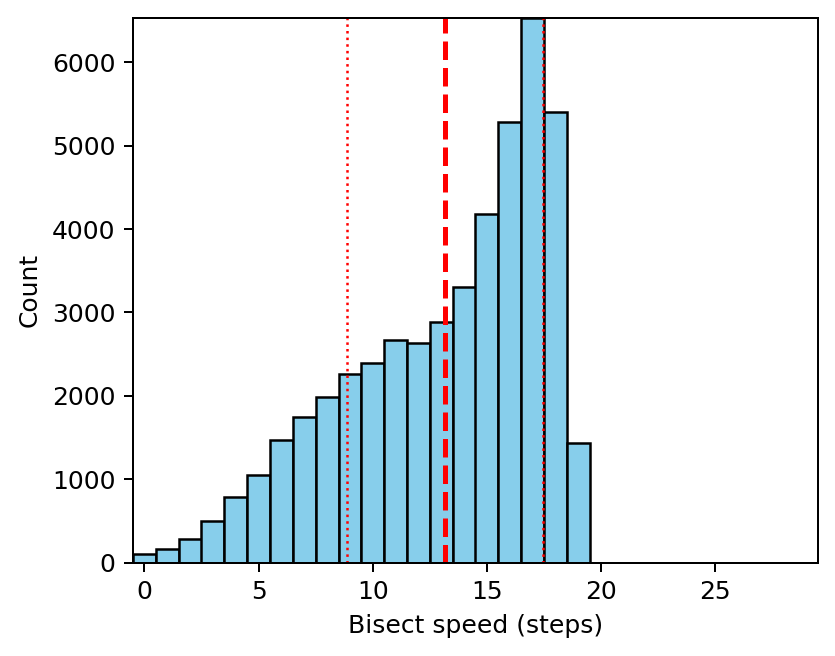
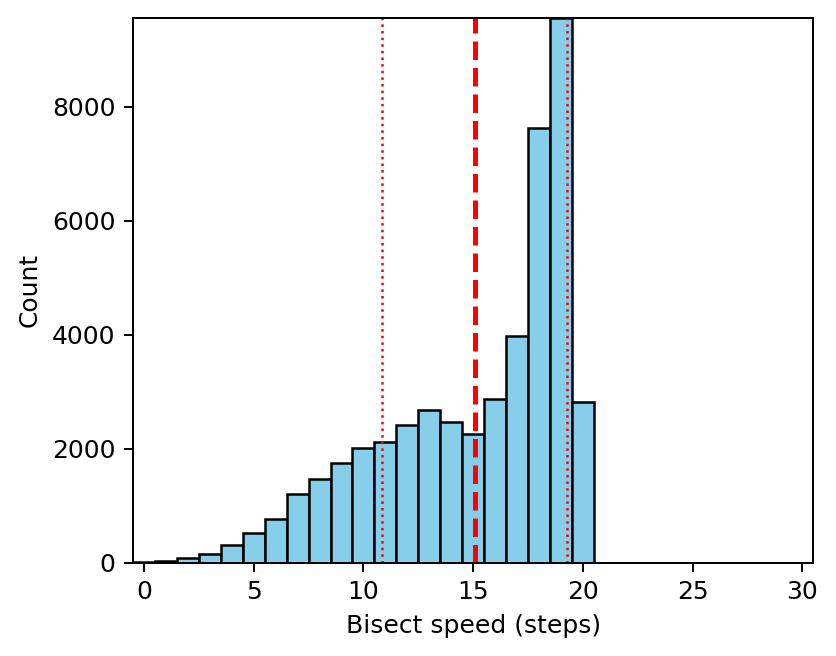
Updated text to incorporate Frajo's comments
Edits to the writeup to refine the language and include results
comparing the git bisect ordering with the git log ordering.

diff --git a/writeup/bisect.tex b/writeup/bisect.tex
@@ -467,7 +467,7 @@ E-mail: david.llewellyn-jones@jolla.com and franz.haider@jolla.com.}% <-this % s
 % in the abstract or keywords.
 \IEEEtitleabstractindextext{%
 \begin{abstract}
-In software development, a {\it regression\/} constitutes a bug that is known to have been introduced since the previous release; hence the search space for identifying the commit that introduced the bug is bounded by the previous and current release commits. The {\code git bisect} tool makes use of the bisect algorithm to identifying the specific commit that introduced the bug in a mechanical way. When developing software, having identified the specific commit that introduced the regression, it will often then be reverted (undone) using a {\it revert commit}. The bisect algorithm can be shown mathematically to be the optimal search algorithm as long as the search space is uniformly randomly distributed. We analyse and identify revert commits across all public repositories on GitHub for fourteen different programming languages in order to demonstrate that regression commits {\it are not\/} uniformly distributed. We then go on to show that using a weighted distance metric, the average number of steps required to identify regression commits can be significantly reduced. Depending on the langage we show a decrease of between 0.60 and 4.02 steps. We achieve this using a relatively simple statistical regression analysis that allows us to better approximate the distribution of commits and provide an improved weighted distance metric for use with {\code git bisect}.
+In software development, a {\it regression\/} constitutes a bug that is known to have been introduced since the previous release; hence the search space for identifying the commit that introduced the bug is bounded by the previous and current release commits. The {\code git bisect} tool makes use of the bisect algorithm to identifying the specific commit that introduced the bug in a mechanical way. When developing software, having identified the specific commit that introduced the regression, it will often then be reverted (undone) using a {\it revert commit}. The bisect algorithm can be shown mathematically to be the optimal search algorithm as long as the search space is uniformly randomly distributed. We analyse and identify revert commits across all public repositories on GitHub for fourteen different programming languages in order to demonstrate that regression commits {\it are not\/} uniformly distributed. We then go on to show that using a weighted distance metric, the average number of steps required to identify regression commits can be significantly reduced. Depending on the langage we show a decrease of between 0.45 and 3.90 steps. We achieve this using a relatively simple statistical regression analysis that allows us to better approximate the distribution of commits and provide an improved weighted distance metric for use with {\code git bisect}.
 \end{abstract}
 
 % Note that keywords are not normally used for peerreview papers.
@@ -554,7 +554,7 @@ The {\code git bisect} utility is one of the many tools in the software-develope
 
 The ability to bisect code using {\code git} was introduced into the {\code git} source tree by Linus Torvolds in June 2005 \cite{git-commit-8b3a1e056f21} as a {\code git-rev-list} option, then separated out as a {\code git} command in its own right a month later \cite{git-commit-8cc6a0831988}. It's gradually been improved over time to make it easier to use, but the basic concept remains the same.
 
-Broadly speaking the approach applies the classic {\it bisect\/} algorithm to isolate a bug to a specific commit in a source control system such as git. The {\tt git bisect} utility automates the process, using the git commit history as the underlying geometry that the algorithm is applied to.
+Broadly speaking the approach applies the classic {\it bisect\/} algorithm to isolate a bug to a specific commit in a source control system such as git. The {\tt git bisect} utility automates the process, using the git commit lineage as the underlying geometry that the algorithm is applied to.
 
 The process is as follows.
 
@@ -581,7 +581,7 @@ In software development terms it's therefore already a venerable technique, yet 
 
 \section{Claims}
 
-The {\it bisect\/} algorithm offers optimal efficiency, but only under the assumption that the commits to be identified are uniformly distributed between the initial bounds. We start by dropping this assumption, and instead assert that we can improve the efficiency of the algorithm by better understanding the actual distribution of regressions in the commit tree.
+The {\it bisect\/} algorithm offers optimal efficiency, but only under the assumption that regression commits are uniformly distributed between the initial bounds. We start by dropping this assumption, and instead assert that we can improve the efficiency of the algorithm by better understanding the actual distribution of regressions in the commit tree.
 
 Our first null hypothesis therefore relates to this distribution.
 
@@ -618,7 +618,7 @@ We set up a cluster of Amazon AWS servers to traverse the list of repositories u
 
 For each repository the server made a local bare clone of the repository. This pulls down the git history, including the diffs for every file that changed between each commit, but without recreating a working copy of all of the files in the repository\footnote{See \url{https://www.git-scm.com/docs/git-clone#Documentation/git-clone.txt---bare}}.
 
-The server then traversed the {\it main\/} branch of the repository (note that the actual name of the main branch is different between projects, but specified by the project maintainers; for example until recently it was common to call this the {\code master} branch, while now use of {\code main} is becoming more popular). Since this is only a single branch, there is a linear order to the commits, from the first commit in the repository through to the most recent commit on the branch.
+The server then traversed the {\it main\/} branch of the repository (note that the actual name of the main branch is different between projects, but specified by the project maintainers; for example until recently it was common to call this the {\code master} branch, while now use of {\code main} is becoming more popular).
 
 Projects are categories by the main language of the project. Data relating to the following languages was collected: C, C++, C\#, Go, Java, Javascript, Objective-C, Perl, PHP, Python, R, Ruby, Rust and Swift. For each project we collect the following data:
 
@@ -673,7 +673,7 @@ The following JSON snippet shows a single commit entry as it might appear in thi
 },
 \end{lstlisting}
 
-In order to allow for more efficient analysis, we also collect an ordered list of all of the commits on the main branch. 
+The bisect algorithm used by {\code git} uses a distance metric based on commit parents, but to allow for a more efficient analysis, we use the time-based order output by {\code git log}. This considerably simplifies the data capture while in practice having only a marginal affect on the distance metric\footnote{Across the two largest projects from each language category, we measured the mean of the difference between the two metrics to be 0.00893 with a standard deviation of 0.0248 (over 85\% of the distance values were identical).}.
 
 Most of the data collected in these files is uncontroversial, however it's worth considering how the revert commits have been identified. We searched for commit log entries containing the phrase {\it"This reverts commit $X$"\/} where $X$ is a hexadecimal number. This is the standard commit log message introduced when using the {\code git revert} command. It's also common practice to use the same terminology when a commit is reverted (or partially reverted) manually.
 
@@ -718,7 +718,7 @@ The full Python script used to collect these data can itself be found on GitHub\
 
 \subsection{Analysis}
 
-In order to test our hypothesis we split our analysis into three stages. First we test for uniformity; second we perform a regression analysis, the results of which we use to develop a more effective bisection algorithm; third we test the algorithm using 10-fold cross-validation \cite{}.
+In order to test our hypothesis we split our analysis into three stages. First we test for uniformity; second we perform a regression analysis, the results of which we use to develop a more effective bisection algorithm; third we test the algorithm using 10-fold cross-validation \cite{james2013}.
 
 Since the analysis is split into several stages, with some stages being dependent on the results of earlier stages, we find it more convenient to describe our methodology alongside the results for each of the stages, rather than providing the full details here.
 
@@ -1103,7 +1103,7 @@ Swift hunks & 8.84 & -11.0 & 3.22 & 0.733 & -0.474 & 0.145 & 0.6 & -24.2 & 2.52
 \end{center}
 \end{table*}
 
-In order to test Hypothesis \ref{hyp:algorithm} we need a means of comparing the goodness of fit of the different regression results. We do this by considering $E$ the {\it Root Mean Square Error\/}\footnote{See \url{https://en.wikipedia.org/w/index.php?title=Root-mean-square_deviation&oldid=1093261496}} and $R^"$ the {\it Coefficient of Determination\/}\footnote{See \url{https://en.wikipedia.org/w/index.php?title=Coefficient_of_determination&oldid=1096140789}}. If $(x_i, y_i)$ are the datapoints for $1 \le i \le n$ and $f : \mathbb{R} \mapsto \mathbb{R}$ is the function determined by performing the regression, then:
+In order to test Hypothesis \ref{hyp:efficiency} we need a means of comparing the goodness of fit of the different regression results. We do this by considering $E$ the {\it Root Mean Square Error\/}\footnote{See \url{https://en.wikipedia.org/w/index.php?title=Root-mean-square_deviation&oldid=1093261496}} and $R^"$ the {\it Coefficient of Determination\/}\footnote{See \url{https://en.wikipedia.org/w/index.php?title=Coefficient_of_determination&oldid=1096140789}}. If $(x_i, y_i)$ are the datapoints for $1 \le i \le n$ and $f : \mathbb{R} \mapsto \mathbb{R}$ is the function determined by performing the regression, then:
 
 \begin{align}
 E   & = \sqrt{\frac{\sum_i (y_i - f(x_i))^2}{n}}, \\
@@ -1167,14 +1167,14 @@ Table \ref{table:regression} shows the values for $E$ and $R^2$ for each of the 
 
 In the largest number of cases (7 out of 14) the exponential regression applied using lines changed as the distance metric gave the lowest Root Mean Square Error and the highest Coefficient of Determination. In the case of Perl the exponential regression applied to commits gave the best fit. In the remaining cases the restults showed a lack of consistency between the Root Mean Square Error and Coefficient of Determination. The reasons for this are unclear, but can potentially be put down to the smaller datasets for many of the languages (see Table \ref{table:project-stats}) with the potential to introduce noise.
 
-In the next section we will apply the results in order to develop an optimised bisect algorithm, and measure its effectiveness.
+In the next section we will apply the results in order to optimise the bisect algorithm, and measure its effectiveness.
 
 \section{Application}
 \label{section:application}
 
 Having refuted the claim that regressions are uniformly distributed, and established that a distance measure based on lines-changed modelled using an exponentiated polynomial provide the best fit for the data amongst the options tested, we now turn to applying these results to the bisect algorithm itself.
 
-Our approach involves using the frequency distribution modelled by our function in order to transform the frequency space, as far as possible, into a uniform distribution. We then apply the original bisect algorithm to this transformed distribution.
+Our approach involves using the frequency distribution modelled by our function in order to transform the frequency space, as far as possible, into a uniform distribution. We then apply the bisect algorithm to this transformed distribution.
 
 In order to transform the frequency distrubition we weight the distances based on the modelled function.
 
@@ -1189,7 +1189,7 @@ We use the exponential polynomial using the coefficients shown in table \ref{tab
 
 Table \ref{table:bisectsteps} summarises the results, showing the mean and standard deviation of the number of steps required to succesfully find the regression commit when using the various distance metrics. The values are calculated by reapplying our amended bisect algorithm to all of the projects on GitHub, catergories by language once again.
 
-As we can see, in all cases the amended algorithm using a weighted distance metric provides a lower mean than the standard case. In other words, a weighted distance metric will find the regression commit in a fewer number of steps than just by using the standard bisect algorithm as employed by {\code git bisect}.
+As we can see, in all cases the amended algorithm using a weighted distance metric provides a lower mean than the standard case. In other words, a weighted distance metric is likely to find the regression commit in a fewer number of steps than just by using the standard bisect algorithm as employed by {\code git bisect}.
 
 We provide a slightly more detailed breakdown these data for the C language in Figure \ref{fig:c-bisect}. The mean and standard deviation are marked on as the dashed and dotted lines respectively. This gives an idea of the distribution of number of steps needed across the C projects that had regression commits.
 
@@ -1200,20 +1200,20 @@ Figure \ref{fig:javascript-bisect} shows a similar breakdown of the results for 
 \begin{tabular}{l | *{2}{d{3.3}} | *{2}{d{3.3}} | *{2}{d{3.3}} | *{2}{d{3.3}}} \hline
  & \multicolumn{2}{c |}{Commits} & \multicolumn{2}{c |}{Weighted commits} & \multicolumn{2}{c |}{Weighted lines} & \multicolumn{2}{c}{Weighted hunks} \\
 Language & \multicolumn{1}{c}{$\mu$} & \multicolumn{1}{c |}{$\sigma$} & \multicolumn{1}{c}{$\mu$} & \multicolumn{1}{c |}{$\sigma$} & \multicolumn{1}{c}{$\mu$} & \multicolumn{1}{c |}{$\sigma$} & \multicolumn{1}{c}{$\mu$} & \multicolumn{1}{c}{$\sigma$} \\ \hline
-C & 13.20 & 4.29 & 12.6 & 6.52 & 12.9 & 6.58 & 12.8 & 6.57 \\
-C++ & 7.71 & 3.17 & 4.85 & 3.77 & 5.21 & 3.85 & 4.98 & 3.8 \\
-C\# & 7.91 & 4.17 & 4.8 & 3.43 & 5.01 & 3.61 & 4.87 & 3.41 \\
-Go & 5.02 & 2.26 & 3.77 & 1.85 & 3.77 & 2.02 & 3.73 & 1.71 \\
-Java & 11.2 & 3.93 & 8.4 & 5.24 & 8.49 & 5.44 & 8.47 & 5.2 \\
-JavaScript & 5.15 & 2.56 & 3.2 & 1.54 & 3.17 & 1.68 & 3.23 & 1.67 \\
-Objective-C & 4.07 & 2.56 & 2.73 & 1.53 & 2.65 & 1.73 & 2.71 & 1.61 \\
-Perl & 6.07 & 2.81 & 3.47 & 1.67 & 3.81 & 1.79 & 3.62 & 1.72 \\
-PHP & 9.68 & 3.28 & 6.53 & 3.49 & 6.65 & 3.38 & 6.44 & 3.3 \\
-Python & 8.96 & 3.47 & 4.94 & 3.46 & 5.44 & 3.44 & 5.09 & 3.27 \\
-R & 6.61 & 2.7 & 6.2 & 3.23 & 6.3 & 3.39 & 6.07 & 3.11 \\
-Ruby & 5.35 & 2.74 & 3.49 & 1.84 & 3.53 & 1.87 & 3.49 & 1.79 \\
-Rust & 7.66 & 2.78 & 5.73 & 3.4 & 5.9 & 3.86 & 5.9 & 3.45 \\
-Swift & 3.6 & 2.38 & 3.09 & 1.97 & 2.75 & 1.99 & 2.97 & 2.08 \\
+C & 15.1 & 4.22 & 14.5 & 6.5 & 14.8 & 6.55 & 14.7 & 6.56 \\
+C++ & 9.26 & 3.12 & 6.44 & 3.91 & 6.82 & 3.94 & 6.6 & 3.9 \\
+C\# & 9.43 & 4.12 & 6.39 & 3.49 & 6.62 & 3.66 & 6.51 & 3.44 \\
+Go & 6.33 & 2.32 & 5.06 & 1.95 & 5.08 & 2.23 & 5.12 & 1.97 \\
+Java & 13 & 3.88 & 10.2 & 5.28 & 10.3 & 5.48 & 10.3 & 5.25 \\
+JavaScript & 6.39 & 2.61 & 4.56 & 1.69 & 4.35 & 1.77 & 4.42 & 1.72 \\
+Objective-C & 5.28 & 2.54 & 4.05 & 1.58 & 3.94 & 1.73 & 3.98 & 1.58 \\
+Perl & 7.43 & 2.91 & 4.86 & 1.69 & 5.17 & 1.77 & 5.05 & 1.77 \\
+PHP & 11.5 & 3.19 & 8.21 & 3.53 & 8.35 & 3.39 & 8.34 & 3.36 \\
+Python & 10.5 & 3.47 & 6.6 & 3.49 & 7.03 & 3.51 & 6.79 & 3.39 \\
+R & 8.24 & 2.67 & 7.79 & 3.28 & 7.97 & 3.45 & 7.76 & 3.27 \\
+Ruby & 6.77 & 2.73 & 4.85 & 1.86 & 5.12 & 2.14 & 4.95 & 1.9 \\
+Rust & 9.51 & 2.72 & 7.39 & 3.38 & 7.56 & 3.95 & 7.52 & 3.51 \\
+Swift & 5.11 & 2.52 & 4.49 & 2.11 & 4.06 & 2.03 & 4.37 & 2.12 \\
 \end{tabular}
 \caption{\label{table:bisectsteps}Average number of bisect steps required to identify the regression commit.}
 \end{center}
@@ -1260,7 +1260,7 @@ Swift & 3.6 & 2.38 & 3.09 & 1.97 & 2.75 & 1.99 & 2.97 & 2.08 \\
 \caption{\label{fig:javascript-bisect}Histograms for the JavaScript language of the number of steps required to complete the bisect algorithm using (a) the standard metric; (b) the weighted commit metric; (c) the weighted lines changed metric; (d) the weighted hunks changed metric. The dashed line indicates the mean, the dotted lines a one-standard-deviation interval on each side it.}
 \end{figure*}
 
-This finally brings us to our Hypothesis \ref{hyp:efficiency}. We'll recall that this hypothesis is that the bisect algorithm is the most efficient search algorithm for identifying the regresssion commits. We use the data we've collected, as summarised in Table \ref{table:bisectsteps}, to perform a significance test on the hypothesis that the bisect algorithm and the weighted bisect algorithm are from the same population.
+This finally brings us to our Hypothesis \ref{hyp:efficiency}. Recall this asserts that the bisect algorithm is the most efficient search algorithm for identifying the regresssion commits. We use the data we've collected, as summarised in Table \ref{table:bisectsteps}, to perform a significance test on the hypothesis that the bisect algorithm and the weighted bisect algorithm are from the same population.
 
 The datapoints we have are paired: for each regression we have the speed of convergence using the standard algorithm and the speed of convergence using the weighted algorithm. However looking at the graphs in Figures \ref{fig:c-bisect} and \ref{fig:javascript-bisect}, we note that while the weighted distance metrics generate broadly normally distributed results, for the standard bisect algorithm the results are skewed. This isn't entirely surprising, since if the regressions were uniformly distributed, we'd expect the bisect algorithm to generate a heavily skewed $y = 2^x$ distribution. We're also unable to conclude that the distributions have the same or similar variance.
 
@@ -1271,56 +1271,56 @@ Based on the assumptions we can make, we perform a two-sided Wilcoxon Signed-Ran
 \begin{tabular}{l | r r | r r | r r} \hline
  & \multicolumn{2}{c |}{Weighted commits} & \multicolumn{2}{c |}{Weighted lines} & \multicolumn{2}{c}{Weighted hunks} \\
 Language & \multicolumn{1}{c}{$Z$} & \multicolumn{1}{c |}{$p$} & \multicolumn{1}{c}{$Z$} & \multicolumn{1}{c |}{$p$} & \multicolumn{1}{c}{$Z$} & \multicolumn{1}{c}{$p$} \\ \hline
-C & 13.99 & $1.746 \times 10^{-44}$ & 10.11 & $4.961 \times 10^{-24}$ & 10.61 & $2.71 \times 10^{-26}$ \\
-C++ & 35.1 & $6.364 \times 10^{-270}$ & 31.06 & $7.308 \times 10^{-212}$ & 32.78 & $1.299 \times 10^{-235}$ \\
-C\# & 19.27 & $9.078 \times 10^{-83}$ & 17.79 & $7.782 \times 10^{-71}$ & 18.66 & $1.111 \times 10^{-77}$ \\
-Go & 4.714 & $2.424 \times 10^{-06}$ & 4.355 & $1.33 \times 10^{-05}$ & 4.525 & $6.031 \times 10^{-06}$ \\
-Java & $\infty$ & 0.0 & $\infty$ & 0.0 & $\infty$ & 0.0 \\
-JavaScript & 7.08 & $1.443 \times 10^{-12}$ & 6.6 & $4.124 \times 10^{-11}$ & 6.468 & $9.903 \times 10^{-11}$ \\
-Objective-C & 7.698 & $1.387 \times 10^{-14}$ & 6.894 & $5.437 \times 10^{-12}$ & 7.344 & $2.081 \times 10^{-13}$ \\
-Perl & 7.019 & $2.235 \times 10^{-12}$ & 6.608 & $3.885 \times 10^{-11}$ & 6.935 & $4.05 \times 10^{-12}$ \\ 
-PHP & 12.08 & $1.42 \times 10^{-33}$ & 12.08 & $1.384 \times 10^{-33}$ & 12.34 & $5.806 \times 10^{-35}$ \\
-Python & 21.44 & $5.558 \times 10^{-102}$ & 20.79 & $5.399 \times 10^{-96}$ & 21.76 & $5.482 \times 10^{-105}$ \\
-R & 2.743 & 0.006082 & 2.197 & 0.02801 & 3.566 & 0.000362 \\
-Ruby & 6.202 & $5.561 \times 10^{-10}$ & 6.118 & $9.489 \times 10^{-10}$ & 5.98 & $2.235 \times 10^{-09}$ \\
-Rust & 6.39 & $1.654 \times 10^{-10}$ & 5.444 & $5.198 \times 10^{-08}$ & 5.891 & $3.834 \times 10^{-09}$ \\
-Swift & 2.963 & 0.003051 & 3.952 & $7.74 \times 10^{-05}$ & 3.131 & 0.001742 \\
+C & 7.135 & $9.654 \times 10^{-13\0}$ & 6.656 & $2.807 \times 10^{-11\0}$ & 3.737 & $1.861 \times 10^{-4\0\0}$ \\
+C++ & 36.91\0 & $3.199 \times 10^{-298}$ & 31.37\0 & $4.885 \times 10^{-216}$ & 33.53\0 & $1.757 \times 10^{-246}$ \\
+C\# & 19.43\0 & $4.699 \times 10^{-84\0}$ & 17.77\0 & $1.200 \times 10^{-70\0}$ & 18.76\0 & $1.539 \times 10^{-78\0}$ \\
+Go & 5.087 & $3.647 \times 10^{-7\0\0}$ & 4.825 & $1.397 \times 10^{-6\0\0}$ & 4.727 & $2.282 \times 10^{-6\0\0}$ \\
+Java & \multicolumn{1}{c}{$\infty$} & $0.0 \phantom{00 \times 10^{-000}}$ & \multicolumn{1}{c}{$\infty$} & $0.0 \phantom{00 \times 10^{-000}}$ & \multicolumn{1}{c}{$\infty$} & $0.0 \phantom{00 \times 10^{-000}}$ \\
+JavaScript & 7.194 & $6.303 \times 10^{-13\0}$ & 6.837 & $8.071 \times 10^{-12\0}$ & 6.81\0 & $9.764 \times 10^{-12\0}$ \\
+Objective-C & 7.596 & $3.043 \times 10^{-14\0}$ & 6.958 & $3.462 \times 10^{-12\0}$ & 7.229 & $4.862 \times 10^{-13\0}$ \\
+Perl & 7.231 & $4.809 \times 10^{-13\0}$ & 6.76\0 & $1.383 \times 10^{-11\0}$ & 6.9\0\0 & $5.195 \times 10^{-12\0}$ \\
+PHP & 13.06\0 & $5.547 \times 10^{-39\0}$ & 13.02\0 & $9.738 \times 10^{-39\0}$ & 13.1\0\0 & $3.155 \times 10^{-39\0}$ \\
+Python & 21.94 & $1.048 \times 10^{-106}$ & 21.23\0 & $5.309 \times 10^{-100}$ & 21.74\0 & $7.781 \times 10^{-105}$ \\
+R & 3.502 & $4.619 \times 10^{-4\0\0}$ & 1.884 & $5.961 \times 10^{-2\0\0}$ & 3.781 & $1.565 \times 10^{-4\0\0}$ \\
+Ruby & 6.349 & $2.169 \times 10^{-10\0}$ & 5.843 & $5.141 \times 10^{-9\0\0}$ & 6.06\0 & $1.358 \times 10^{-9\0\0}$ \\
+Rust & 7.315 & $2.572 \times 10^{-13\0}$ & 6.995 & $2.651 \times 10^{-12\0}$ & 7.257 & $3.956 \times 10^{-13\0}$ \\
+Swift & 4.451 & $8.567 \times 10^{-6\0\0}$ & 4.946 & $7.562 \times 10^{-7\0\0}$ & 4.405 & $1.060 \times 10^{-5\0\0}$ \\
 \end{tabular}
 \caption{\label{table:significance-twosided}Two-sided Wilcoxon Signed-Rank significance test results, with the null hypothesis that the results from the standard bisect algorithm and the result using the given weighted distance metric are from the same population. The value of $Z$ for Java was too big to be computed by the used library.}
 \end{center}
 \end{table*}
 
-The resulting $Z$ statistic and $p$-value for each of the tests performed can be seen in Table table:significance-twosided. In all of the case the $p$-value is less than $0.05$, meaning that the null hypothesis is rejected with at a confidence level of 5\%.
+The resulting $Z$ statistic and $p$-value for each of the tests performed can be seen in Table table:significance-twosided. In all of the case bar one the $p$-value is less than $0.05$, meaning that the null hypothesis is rejected with at a confidence level of 5\%. The exception is when using the weighted lines distance metric for the R language.
 
-We next consider which of the tests is most efficient by performing a one-sided Wilcoxon Signed-Rank significance test on the same pairs of datapoints. Our null hpyotheis for the test is that ``the data generated using the standard bisect algorith shows faster regression detection than the data generated by the weighted bisect algorithm''.
+We next consider which of the tests is most efficient by performing a one-sided Wilcoxon Signed-Rank significance test on the same pairs of datapoints. Our null hypotheis for the test is that ``the data generated using the standard bisect algorith shows faster regression detection than the data generated by the weighted bisect algorithm''. We skip this test for weighted lines applied to the R language, since we weren't able to show significance in the two-sided case.
 
 \begin{table*}[t!]
 \begin{center}
 \begin{tabular}{l | r r | r r | r r} \hline
  & \multicolumn{2}{c |}{Weighted commits} & \multicolumn{2}{c |}{Weighted lines} & \multicolumn{2}{c}{Weighted hunks} \\
 Language & \multicolumn{1}{c}{$Z$} & \multicolumn{1}{c |}{$p$} & \multicolumn{1}{c}{$Z$} & \multicolumn{1}{c |}{$p$} & \multicolumn{1}{c}{$Z$} & \multicolumn{1}{c}{$p$} \\ \hline
-C & 14.04 & $8.731 \times 10^{-45}$ & 10.18 & $2.481 \times 10^{-24}$ & 10.67 & $1.355 \times 10^{-26}$ \\
-C++ & 35.12 & $3.182 \times 10^{-270}$ & 31.09 & $3.654 \times 10^{-212}$ & 32.8 & $6.497 \times 10^{-236}$ \\
-C\# & 19.31 & $4.539 \times 10^{-83}$ & 17.83 & $3.891 \times 10^{-71}$ & 18.69 & $5.555 \times 10^{-78}$ \\
-Go & 4.854 & $1.212 \times 10^{-06}$ & 4.505 & $6.651 \times 10^{-06}$ & 4.67 & $3.016 \times 10^{-06}$ \\
-Java & $\infty$ & 0.0 & $\infty$ & 0.0 & $\infty$ & 0.0 \\
-JavaScript & 7.175 & $7.215 \times 10^{-13}$ & 6.702 & $2.062 \times 10^{-11}$ & 6.572 & $4.951 \times 10^{-11}$ \\
-Objective-C & 7.786 & $6.934 \times 10^{-15}$ & 6.992 & $2.718 \times 10^{-12}$ & 7.436 & $1.04 \times 10^{-13}$ \\
-Perl & 7.115 & $1.118 \times 10^{-12}$ & 6.71 & $1.942 \times 10^{-11}$ & 7.033 & $2.025 \times 10^{-12}$ \\
-PHP & 12.13 & $7.1 \times 10^{-34}$ & 12.13 & $6.919 \times 10^{-34}$ & 12.39 & $2.903 \times 10^{-35}$ \\
-Python & 21.47 & $2.779 \times 10^{-102}$ & 20.82 & $2.7 \times 10^{-96}$ & 21.79 & $2.741 \times 10^{-105}$ \\
-R & 2.964 & 0.003041 & 2.457 & 0.014 & 3.744 & 0.000181 \\
-Ruby & 6.311 & $2.781 \times 10^{-10}$ & 6.227 & $4.744 \times 10^{-10}$ & 6.092 & $1.117 \times 10^{-09}$ \\
-Rust & 6.496 & $8.27 \times 10^{-11}$ & 5.567 & $2.599 \times 10^{-08}$ & 6.005 & $1.917 \times 10^{-09}$ \\
-Swift & 3.17 & 0.001525 & 4.115 & $3.87 \times 10^{-05}$ & 3.329 & 0.0008711 \\
+C & 7.23\0 & $4.827 \times 10^{-13\0}$ & 6.758 & $1.404 \times 10^{-11\0}$ & 3.908 & $9.306 \times 10^{-5\0\0}$ \\
+C++ & 36.93\0 & $1.600 \times 10^{-298}$ & 31.39\0 & $2.443 \times 10^{-216}$ & 33.55\0 & $8.784 \times 10^{-247}$ \\
+C\# & 19.46\0 & $2.349 \times 10^{-84\0}$ & 17.81\0 & $5.999 \times 10^{-71\0}$ & 18.8\0\0 & $7.694 \times 10^{-79\0}$ \\
+Go & 5.216 & $1.824 \times 10^{-7\0\0}$ & 4.962 & $6.985 \times 10^{-7\0\0}$ & 4.866 & $1.141 \times 10^{-6\0\0}$ \\
+Java & \multicolumn{1}{c}{$\infty$} & $0.0 \phantom{00 \times 10^{-000}}$ & \multicolumn{1}{c}{$\infty$} & $0.0 \phantom{00 \times 10^{-000}}$ & \multicolumn{1}{c}{$\infty$} & $0.0 \phantom{00 \times 10^{-000}}$ \\
+JavaScript & 7.288 & $3.151 \times 10^{-13\0}$ & 6.936 & $4.035 \times 10^{-12\0}$ & 6.909 & $4.882 \times 10^{-12\0}$ \\
+Objective-C & 7.686 & $1.522 \times 10^{-14\0}$ & 7.055 & $1.731 \times 10^{-12\0}$ & 7.323 & $2.431 \times 10^{-13\0}$ \\
+Perl & 7.324 & $2.404 \times 10^{-13\0}$ & 6.859 & $6.914 \times 10^{-12\0}$ & 6.998 & $2.598 \times 10^{-12\0}$ \\
+PHP & 13.11\0 & $2.774 \times 10^{-39\0}$ & 13.07\0 & $4.869 \times 10^{-39\0}$ & 13.16\0 & $1.578 \times 10^{-39\0}$ \\
+Python & 21.97\0 & $5.241 \times 10^{-107}$ & 21.26\0 & $2.655 \times 10^{-100}$ & 21.78\0 & $3.891 \times 10^{-105}$ \\
+R & 3.683 & $2.310 \times 10^{-4\0\0}$ & \multicolumn{1}{c}{--} & \multicolumn{1}{c}{--} & 3.95\0 & $7.825 \times 10^{-5\0\0}$ \\
+Ruby & 6.455 & $1.085 \times 10^{-10\0}$ & 5.957 & $2.570 \times 10^{-9\0\0}$ & 6.171 & $6.790 \times 10^{-10\0}$ \\
+Rust & 7.408 & $1.286 \times 10^{-13\0}$ & 7.092 & $1.325 \times 10^{-12\0}$ & 7.35\0 & $1.978 \times 10^{-13\0}$ \\
+Swift & 4.597 & $4.283 \times 10^{-6\0\0}$ & 5.08\0 & $3.781 \times 10^{-7\0\0}$ & 4.553 & $5.301 \times 10^{-6\0\0}$ \\
 \end{tabular}
 \caption{\label{table:significance-onesided}One-sided Wilcoxon Signed-Rank significance test results, with the null hypothesis that the results from the standard bisect algorithm show faster convergence than when using the given weighted distance metric.}
 \end{center}
 \end{table*}
 
-The resulting $Z$ statistic and $p$-value for each of the tests performed can be seen in Table \ref{table:significance-onesided}. Again, in all cases the null hypthesis is rejected at a level of $0.05$, and we are able to conclude that the weighted bisect algorithm detects regressions in fewer steps than the standard algorithm, at a confidence level of 5\%.
+The resulting $Z$ statistic and $p$-value for each of the tests performed can be seen in Table \ref{table:significance-onesided}. In all cases the null hypthesis is rejected at a level of $0.05$, and we are able to conclude that the weighted bisect algorithm detects regressions in fewer steps than the standard algorithm, at a confidence level of 5\%.
 
-We are therefore able to reject our original Hypothesis \ref{hyp:algorithm}.
+In general the $p$-values show strong significance results. There is an exception for R in the case of the weighted lines distance metric; however, the commit metric and hunk metric both show significance across all languages, includint R. We are therefore able to reject our original Hypotheis \ref{hyp:efficiency}.
 
 \section{Limitations}
 \label{section:limitations}
@@ -1333,11 +1333,13 @@ In practice even if a revert can be categorically tied back to a single commit, 
 
 We also make the assumption that the regression was discovered close to when the revert commit was added. The revert commit defines the upper bound for the application of the bisect algorithm in our model, but in practice new commits may be introduced between the regression being discovered and the fix being committed. We don't know of any good way to take this into account, and we believe any impact on the results will be small.
 
+As we noted at the outset, we also apply the ordering of commits based on the log ordering, which flattens the commit lattice into a linear order and makes it easier to apply the bisect algorithm. This differs slightly from the approach used by {\code bit bisect}. As also noted above, we performed tests and found this to have an overal negligible effect on the results, but we would aim to rectify this in in order to use exactly the same bisect algorithm for our analysis in future work.
+
 All of our data were obtained from public repositories on GitHub. By far the majority of the code will therefore be open source (we haven't attempted to factor licences into our analysis). It's known that bug distribution in open source code has different properties to those in closed source projects, the assumption being that this is a consequence of the different development models that apply to each. For example, Kamei \etal \cite{kamei2013} quality assurance in six open source and five closed projects. In relation to defect-inducing changes and whether prioritising changes based on predicted risk can reduce review effort they conclude that ``different factors are effective for open source and for commercial projects''.
 
 With this in mind and without further study it would therefore be inprudent to claim with any certainty that our results will generalise beyond open source projects.
 
-Finally in relation to the data collection it's also worth noting that we considered only non-forked (\ie upstream) projects in order to avoid duplication of data, but this does mean that forked projects that have diverged greatly from their upstream were nevertheless omitted.
+Finally in relation to the data collection it's also worth noting that we considered only non-forked (\ie\/ upstream) projects in order to avoid duplication of data, but this does mean that forked projects that have diverged greatly from their upstream were omitted. It also allow the possibility of duplicate data where projects were copied rather than forked.
 
 When it comes to the analysis of the data we try to make as few assumptions as possible. One area that's worth emphasising is that the expontential regression technique we use is heuristic and therefore not guaranteed to give optimal results. While the linear regressions are guaranteed to minimise the error, it's also worth emphasising that we make no claims about our approach giving optimal performance. Ideally our weighted distance metric would allow us to transform the distribution of regressions to make it uniform before applying the bisect algorithm. In practice while it does help us to get closer to uniformity, we're not able to achieve it.
 
@@ -1375,9 +1377,9 @@ Nevertheless a natural question that arises is whether the same suspiciousness h
 
 The key results as outlined in Section \ref{section:application} are that for all languages, the use of the bisect algorithm using a weighted distance metric -- rather than the usual uniform-commit metric -- offers the potential for greater efficiency in using {\code git bisect}, by on-average reducing the number of steps required to discover the regression commit.
 
-By performing Wilcoxon Signed-Rank tests were were able to determine that for all languages the improvements were statistically significant to a level of 0.05. Nevertheless different languages showed different improvements, ranging from an average improvement of 0.60 steps for C to an average of 4.02 for Python.
+By performing Wilcoxon Signed-Rank tests were were able to determine that for all languages the improvements were statistically significant to a level of 0.05. Nevertheless different languages showed different improvements, ranging from an average improvement of 0.45 steps for R to an average of 3.90 for Python in the case of the commit metric.
 
-We were dissappointed and also somewhat surprised by the relatively modest improvement for the C language, given this was the language for which we were able to collect the most data, and so theoretically were able to model most accurately with our weighting function. At the other end of the scale we were also surprised with how big the improvement was for many languages. In the case of Python reducing the average number of steps needed from around 9 to around 5 has the potential to notably reduce the time needed to identify regressions.
+We were disappointed and also somewhat surprised by the relatively modest improvement of 0.6 steps for the C language, given this was the language for which we were able to collect the most data, and so theoretically were able to model most accurately with our weighting function. At the other end of the scale we were also surprised with how big the improvement was for many languages. In the case of Python reducing the average number of steps needed from around 9 to around 5 has the potential to notably reduce the time needed to identify regressions.
 
 Regressions are unusual in that they are bugs that didn't exist in the previous release yet are discovered to exist in the current release. As such the time of introduction is bounded by those two releases. Using {\code git bisect} allows the regression to be identified to the nearest commit in a way that can be semi- or fully-automated, and in a way that is guaranteed to converge on the correct commit.
 

diff --git a/writeup/macros.tex b/writeup/macros.tex
@@ -19,6 +19,7 @@
 \def\code{\tt}
 \def\setsep{:}
 \def\R{\mathbb{R}}
+\def\0{\phantom{0}}
 \newcommand{\card}[1]{\left| #1 \right|}
 \newcommand{\falsified}[2]{\parbox{\widthof{Yes\quad}}{\centering #1}/\parbox{\widthof{Yes\quad}}{\centering #2}}
 \newcommand{\e}[1]{{\rm e}^{#1}}
